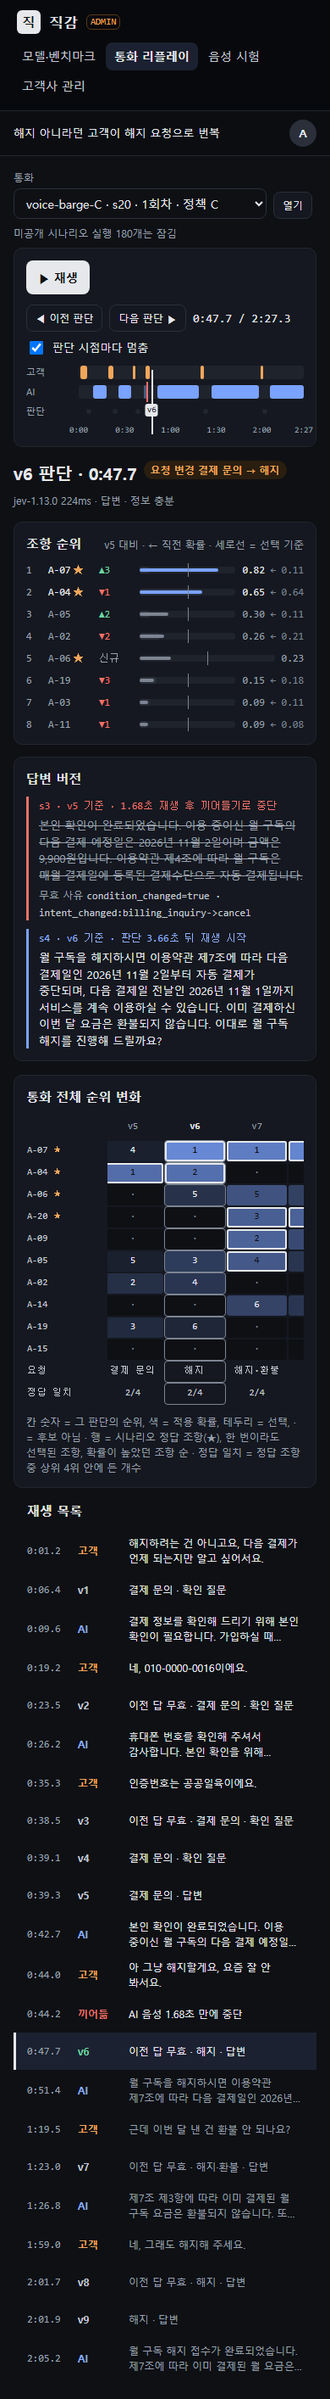
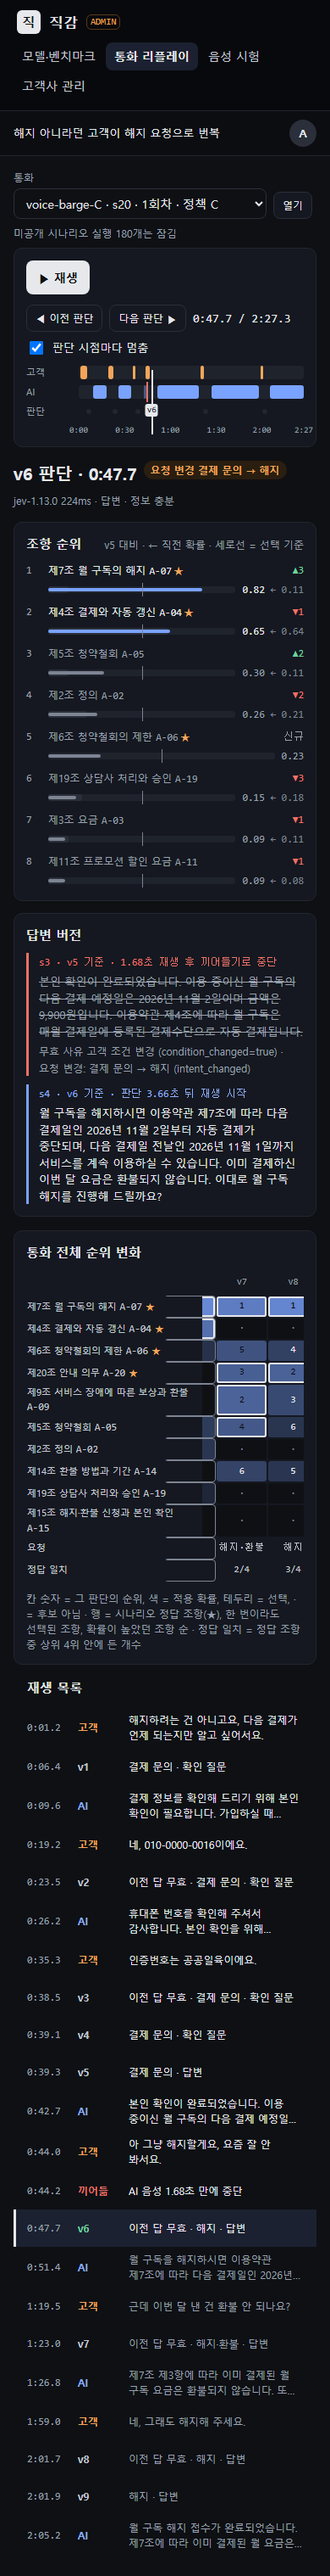
Fix duplicated live answers, name articles in the admin console, and keep replay playback on the chosen decision
- Live call and call history: the 2026-10-14 voice logs also record a chat-channel exposure when an answer is made, so the same AI answer showed twice and an answer that was held and dropped stayed "speaking"; voice calls now draw only answers that went out by voice (stale-exposure numbers are computed as before)
- Admin console: articles show the tenant's article name with the number beside it (replay rank bars and heatmap, voice test conversation and decision log); replay invalidation reasons use readable labels; rank rows put the name on its own line and heatmap row labels are wider and wrap
- Replay: moving to the previous/next decision while playing now continues from that decision's time instead of the old position, which made the follow-scroll pull the page back
- 797 tests and the design harness pass

diff --git a/jikgam/web/static/components.css b/jikgam/web/static/components.css
@@ -477,7 +477,14 @@ a.play-item:hover { background: var(--color-surface-alt); }
 .play-text { overflow: hidden; display: -webkit-box; -webkit-line-clamp: 2; -webkit-box-orient: vertical; }
 
 .rank-bars { display: flex; flex-direction: column; gap: var(--space-4); }
-.rank-row { display: grid; grid-template-columns: var(--size-step) var(--size-play-time) var(--size-time-col) minmax(var(--space-0), 1fr) auto; gap: var(--space-4); align-items: center; font-size: var(--text-sm); font-family: var(--font-mono); color: var(--color-text-muted); }
+/* 조항 이름이 길어 이름은 위 줄, 막대와 확률은 아래 줄에 둔다 */
+.rank-row { display: grid; grid-template-columns: var(--size-step) minmax(var(--space-0), 1fr) auto; grid-template-areas: "no name delta" ". track p"; column-gap: var(--space-4); row-gap: var(--space-2); align-items: center; font-size: var(--text-sm); font-family: var(--font-mono); color: var(--color-text-muted); }
+.rank-no { grid-area: no; }
+.rank-name { grid-area: name; font-family: var(--font-sans); }
+.rank-delta { grid-area: delta; text-align: right; }
+.rank-track { grid-area: track; }
+.rank-name .t-mono, .heatmap tbody th .t-mono { white-space: nowrap; }  /* 조항 번호(A-15)는 줄을 나누지 않는다 */
+.rank-p { grid-area: p; }
 .rank-row.is-selected { color: var(--color-text); }
 .rank-no { color: var(--color-text-muted); }
 .rank-gold { color: var(--color-caution); margin-left: var(--space-1); }
@@ -495,7 +502,7 @@ a.play-item:hover { background: var(--color-surface-alt); }
 .heatmap thead th { font-weight: var(--weight-regular); color: var(--color-text-muted); text-align: center; }
 .heatmap thead th.is-current { color: var(--color-text); font-weight: var(--weight-bold); }
 .heatmap tbody th, .heatmap thead td { width: var(--size-heat-label); }
-.heatmap tbody th { text-align: left; color: var(--color-text-2); font-weight: var(--weight-regular); white-space: nowrap; padding-right: var(--space-4); }
+.heatmap tbody th { text-align: left; color: var(--color-text-2); font-weight: var(--weight-regular); padding-right: var(--space-4); font-family: var(--font-sans); }
 .heatmap td { height: var(--size-heat); text-align: center; border-radius: var(--radius-xs); }
 .heatmap td.heat { background: color-mix(in srgb, var(--color-accent) calc(var(--alpha) * 100%), var(--color-surface-sunk)); color: var(--color-text); }
 .heatmap td.heat.is-dark { color: var(--color-on-accent); }

diff --git a/jikgam/web/static/console.js b/jikgam/web/static/console.js
@@ -364,12 +364,15 @@
       var cursor = document.querySelector("[data-cursor]");
       if (cursor && audio.duration) cursor.style.setProperty("--at", (t / audio.duration) * 100 + "%");
     });
-    // 영역을 바꾼 뒤(다른 판단으로 이동) 멈춰 있으면 새 판단 시각에서 다시 듣게 한다
+    // 영역을 바꾼 뒤(다른 판단으로 이동) 새 판단 시각으로 옮긴다. 재생 중이면 그 시각부터 이어서 재생한다(옛 위치에서 계속
+    // 재생되면 재생 줄을 따라 내리는 스크롤이 화면을 옛 위치로 되돌린다). 같은 판단이면 위치를 그대로 둔다
     players.set(box, function () {
-      start = parseFloat(box.getAttribute("data-start") || "");
-      if (isNaN(start)) return;
+      var next = parseFloat(box.getAttribute("data-start") || "");
+      if (isNaN(next) || next === start) return;
+      start = next;
       last = start;
-      if (audio.paused && audio.readyState > 0) audio.currentTime = start;
+      current = null;
+      if (audio.readyState > 0) audio.currentTime = start;
     });
   }
 

diff --git a/jikgam/web/static/tokens.css b/jikgam/web/static/tokens.css
@@ -92,7 +92,7 @@
   --size-key-col: 96px;
   --size-bar-col: 90px;
   --size-value-col: 36px;
-  --size-heat-label: 96px;
+  --size-heat-label: 208px;
   --size-play-time: 52px;
   --size-play-kind: 52px;
   --size-table-min: 760px;

diff --git a/jikgam/web/admin/voicetest.py b/jikgam/web/admin/voicetest.py
@@ -17,7 +17,7 @@ from ..data.calls import build_call, mask_text
 from ..data.live import speech_plan
 from ..ui import components as ui
 from ..ui import fmt
-from .common import Ctx, shell
+from .common import Ctx, article_namer, shell
 
 EXAMPLES = (
     "결제일 문의에서 해지로 바꾸기: \"다음 결제가 언제 되나요?\"라고 묻고, 답을 듣는 도중에 \"아니요, 그냥 해지할게요\"",
@@ -72,7 +72,7 @@ def interim(events: list[dict[str, Any]]) -> dict[str, Any] | None:
     return part if part is not None and part.get("utt_id") not in finals else None
 
 
-def conversation(call: vt.TestCall, events: list[dict[str, Any]], now: float | None) -> Any:
+def conversation(call: vt.TestCall, events: list[dict[str, Any]], now: float | None, name: Any) -> Any:
     c = build_call(events, call.id, None, now_ms=now)
     plan = speech_plan(events)
     changes = {ch.line_index: ch for ch in c.changes}
@@ -87,7 +87,7 @@ def conversation(call: vt.TestCall, events: list[dict[str, Any]], now: float | N
             text = ln.text[:sp.chars] + "…"  # 고객이 들은 데까지만
         who = "고객" if ln.kind == "customer" else ("AI · 말하는 중" if ln.playing else "AI")
         notes = [ui.joined("고객이 끼어들어", fmt.seconds_fine(ln.played_s, digits=1), "만에 멈춤", sep=" ") if ln.cut else None,
-                 ui.joined("근거", ", ".join(ln.articles), sep=" ") if ln.articles else None]
+                 ui.joined("근거", ui.joined(*[name(a) for a in ln.articles], sep=", "), sep=" ") if ln.articles else None]
         items.append(ui.Turn(who, text, fmt.clock(ln.elapsed_s), ln.kind, current=ln.playing,
                              note=ui.joined(*notes) if any(notes) else None, key=ln.key, reveal=reveal))
         if i in changes:
@@ -113,7 +113,7 @@ def _p(answer: Any) -> float | None:
     return answer.get("p_true", answer.get("p"))
 
 
-def log_rows(events: list[dict[str, Any]], t0: float) -> list[ui.Row]:
+def log_rows(events: list[dict[str, Any]], t0: float, name: Any) -> list[ui.Row]:
     rows = []
     for e in events:
         t, kind, body = e["type"], None, None
@@ -132,9 +132,10 @@ def log_rows(events: list[dict[str, Any]], t0: float) -> list[ui.Row]:
         elif t == ev.EVIDENCE_UPDATED:
             applies = sorted((e.get("applies") or {}).items(), key=lambda kv: -kv[1])[:settings.VOICE_TEST_TOP_ARTICLES]
             kind = "근거"
-            body = ui.joined(ui.joined("적용 조항 상위", ", ".join(a for a, _ in applies) or "-", sep=" "),
-                             ui.joined(*[fmt.prob(p) for _, p in applies], sep=" / ") if applies else None,
-                             ui.joined("고름", ", ".join(e.get("articles") or []) or "없음", sep=" "),
+            body = ui.joined(ui.joined("적용 조항 상위", ui.joined(*[ui.joined(name(a), fmt.prob(p), sep=" ") for a, p in applies],
+                                                                   sep=", ") if applies else "-", sep=" "),
+                             ui.joined("고름", ui.joined(*[name(a) for a in e.get("articles") or []], sep=", ")
+                                       if e.get("articles") else "없음", sep=" "),
                              {True: "정보 충분", False: "정보 부족"}.get(e.get("sufficient")),
                              lb.label(lb.ACTION, e.get("action")))
         elif t == ev.TOOL_RESULT:
@@ -167,8 +168,8 @@ def log_rows(events: list[dict[str, Any]], t0: float) -> list[ui.Row]:
     return rows
 
 
-def decision_log(events: list[dict[str, Any]], t0: float) -> Any:
-    rows = log_rows(events, t0)
+def decision_log(events: list[dict[str, Any]], t0: float, name: Any) -> Any:
+    rows = log_rows(events, t0, name)
     return ui.table([ui.Col("시각", num=True), ui.Col("버전"), ui.Col("종류"), ui.Col("내용")], rows, caption="판단 로그",
                     empty_text="판단이 생기면 시각순으로 쌓입니다.", row_header=False, stack=True)
 
@@ -231,9 +232,10 @@ def page(ctx: Ctx, tests: vt.VoiceTests) -> Any:
         events = vt.read_events(call.log_path)
         now = ev.now_ms() if call.running else None
         t0 = float(events[0]["t_ms"]) if events else 0.0
+        name = article_namer(ctx, next((e.get("org") for e in events if e["type"] == ev.SESSION_START), None))
         view = ui.stack(ui.slot("state", status_line(call, events, now)),
-                        ui.card(ui.slot("conv", conversation(call, events, now)), title="대화", label="대화"),
-                        ui.card(ui.slot("log", decision_log(events, t0)), title="판단 로그", label="판단 로그"), gap="lg")
+                        ui.card(ui.slot("conv", conversation(call, events, now, name)), title="대화", label="대화"),
+                        ui.card(ui.slot("log", decision_log(events, t0, name)), title="판단 로그", label="판단 로그"), gap="lg")
         parts.append(ui.live(href(call.id, cid), settings.LIVE_REFRESH_MS, view) if call.running else view)
     else:
         parts.append(ui.card(ui.empty("시작을 누르면 대화와 판단 로그가 여기에 쌓입니다.",

diff --git a/jikgam/web/admin/replay.py b/jikgam/web/admin/replay.py
@@ -3,6 +3,7 @@
 (ADR 0021, jikgam/web/data/replay.py). 이전·다음 판단은 문서를 새로 열지 않고 바뀐 부분만 맞추며(셸의 data-swap), 순위가 바뀐
 조항 행은 새 자리로 옮겨 가고 재생 위치 선은 다음 판단 위치로 미끄러진다(static/console.js)."""
 
+from collections.abc import Callable
 from typing import Any
 from urllib.parse import quote
 
@@ -11,7 +12,7 @@ from .. import settings
 from ..data import replay as rp
 from ..ui import components as ui
 from ..ui import fmt
-from .common import Ctx, shell
+from .common import Ctx, article_namer, shell
 
 
 LIVE_PREFIX = "live/"  # results/voice/live/: 관리 콘솔 음성 시험 기록
@@ -112,8 +113,8 @@ def playlist(r: rp.Replay, cur: rp.Decision, s: rp.Session) -> Any:
     return ui.stack(ui.pane_head("재생 목록", demoted=True), ui.anchor("playlist", ui.playlist(out, label="재생 목록")), gap="xs")
 
 
-def rank_card(r: rp.Replay, cur: rp.Decision, prev: rp.Decision | None) -> Any:
-    rows = [ui.RankRow(fmt.rank(x.rank), x.article, fmt.rank_delta(x.prev_rank, x.rank), x.p, fmt.prob(x.p), prev=x.prev_p,
+def rank_card(r: rp.Replay, cur: rp.Decision, prev: rp.Decision | None, name: Callable[[str], Any]) -> Any:
+    rows = [ui.RankRow(fmt.rank(x.rank), name(x.article), fmt.rank_delta(x.prev_rank, x.rank), x.p, fmt.prob(x.p), prev=x.prev_p,
                        prev_shown=fmt.prob(x.prev_p) if x.prev_p is not None else None, selected=x.selected, gold=x.gold,
                        key=x.article)
             for x in cur.ranks[:settings.REPLAY_RANK_ROWS]]
@@ -136,8 +137,8 @@ def answers_card(cur: rp.Decision) -> Any:
     for a in cur.invalidated:
         blocks.append(ui.version_block(ui.text(answer_line(a), tone="negative", size="sm", mono=True),
                                        ui.text(a.text, tone="muted", strike=True),
-                                       ui.text(ui.joined("무효 사유", ui.code(" · ".join(
-                                           [x for x in a.reasons if x != "suggestion_valid=false"] or a.reasons)), sep=" "),
+                                       ui.text(ui.joined("무효 사유", ui.joined(*[lb.invalidation_reason(x) for x in (
+                                           [x for x in a.reasons if x != "suggestion_valid=false"] or a.reasons)]), sep=" "),
                                                tone="muted", size="sm"), tone="negative"))
     for a in cur.new:
         when = ui.joined("판단 ", fmt.seconds_fine(a.start_s - cur.at_s), " 뒤 재생 시작", sep="") if a.start_s is not None \
@@ -149,7 +150,7 @@ def answers_card(cur: rp.Decision) -> Any:
     return ui.card(*blocks, title="답변 버전", label="답변 버전")
 
 
-def heat_card(r: rp.Replay, cur: rp.Decision) -> Any:
+def heat_card(r: rp.Replay, cur: rp.Decision, name: Callable[[str], Any]) -> Any:
     seen: list[str] = list(r.gold)
     for d in r.decisions:
         for a in d.selected:
@@ -164,7 +165,7 @@ def heat_card(r: rp.Replay, cur: rp.Decision) -> Any:
         for d in r.decisions:
             rk = next((x for x in d.ranks if x.article == a), None)
             cells.append(ui.HeatCell(None) if rk is None else ui.HeatCell(fmt.rank(rk.rank), rk.p, rk.selected))
-        rows.append((ui.joined(a, ui.text("★", tone="caution") if a in r.gold else None, sep=" "), cells))
+        rows.append((ui.joined(name(a), ui.text("★", tone="caution") if a in r.gold else None, sep=" "), cells))
     cols = [f"v{d.version}" for d in r.decisions]
     foot = [("요청", [lb.label(lb.INTENT, d.intent) or "-" for d in r.decisions])]
     if r.gold:
@@ -207,7 +208,9 @@ def page(ctx: Ctx) -> Any:
                              {True: "정보 충분", False: "정보 부족", None: None}[cur.sufficient]), tone="muted", size="sm")
     head = ui.row(ui.heading(ui.joined(f"v{cur.version} 판단", fmt.clock(cur.at_s, tenths=True)), level=1), *badges, meta,
                   align="baseline", gap="sm")
-    main = ui.stack(head, ui.grid(rank_card(r, cur, prev), answers_card(cur), min="panel"), heat_card(r, cur), gap="lg")
+    name = article_namer(ctx, r.org)
+    main = ui.stack(head, ui.grid(rank_card(r, cur, prev, name), answers_card(cur), min="panel"), heat_card(r, cur, name),
+                    gap="lg")
     body = ui.stack(
         ui.stack(picker(ctx, sessions, s), band(r, cur, s, audio), gap="sm"),
         ui.columns(("list-wide", playlist(r, cur, s)), ("main", main)), gap="lg")

diff --git a/tests/test_web_motion.py b/tests/test_web_motion.py
@@ -12,6 +12,7 @@ from web_fixture import build
 
 from jikgam.web import auth, settings
 from jikgam.web.app import WebConfig, create_app
+from jikgam.web.data.calls import build_call
 from jikgam.web.data.live import Feed, speech_plan
 from jikgam.web.saas import live as saas_live
 from jikgam.web.ui import components as ui
@@ -70,6 +71,23 @@ def test_cut_answer_shows_only_what_was_heard():
     assert "카타파하…" in html and "카타파하거" not in html
     assert "말을 끊음" in html  # 기존 끊김 표시는 그대로
     assert "reveal" not in html  # 다 말한 답은 글자 공개를 하지 않는다
+
+
+def test_voice_call_draws_only_answers_that_went_out_by_voice():
+    """2026-10-14 음성 실행의 로그는 답을 만들 때 채팅 채널 노출도 남긴다. 같은 답이 두 줄이 되면 안 되고, 고객이 말하는 중이라
+    붙잡혔다 버려진 답(음성 노출 없음)은 대화에 없어야 한다."""
+    events = voice_events()
+    held = [{"type": "suggestion.created", "t_ms": 1200.0, "suggestion_id": "s0", "text": "나가지 않은 답", "basis_version": 1},
+            {"type": "suggestion.exposed", "t_ms": 1200.0, "suggestion_id": "s0", "channel": "chat", "start_ms": 1200.0,
+             "end_ms": 1200.0},
+            {"type": "voice.reply_held", "t_ms": 1200.0, "suggestion_id": "s0"}]
+    chat_copy = {"type": "suggestion.exposed", "t_ms": 1450.0, "suggestion_id": "s1", "channel": "chat", "start_ms": 1450.0,
+                 "end_ms": 1450.0}
+    events = events[:3] + held + events[3:4] + [chat_copy] + events[4:]
+    assert [ln.sid for ln in build_call(events, "m1").lines if ln.kind == "ai"] == ["s1", "s2"]
+    feed = Feed("m-live-1", "org_t", Path("m1.jsonl"), events, None, 1.0, lambda: 0.0)
+    ai = [ln for ln in feed.call().lines if ln.kind == "ai"]
+    assert [(ln.sid, ln.playing) for ln in ai] == [("s1", True)]  # 피드 시각 2,000ms: 첫 답을 말하는 중
 
 
 def test_rows_have_stable_keys_and_taken_over_feed_stops_the_clock():

diff --git a/jikgam/web/admin/common.py b/jikgam/web/admin/common.py
@@ -1,10 +1,11 @@
 """관리 콘솔 화면들이 함께 쓰는 셸."""
 
+from collections.abc import Callable
 from dataclasses import dataclass
 from pathlib import Path
 from typing import Any
 
-from ..data.tenants import Tenant
+from ..data.tenants import Tenant, article_label, terms_of
 from ..ui import components as ui
 
 NOTE = "직감 팀 내부용 · 고객사에는 보이지 않습니다."
@@ -19,6 +20,20 @@ class Ctx:
     user: str
     jobs: Any = None   # 벤치마크 실행 관리(jikgam/web/data/benchmarks.py의 Jobs)
     message: str | None = None
+
+
+def article_namer(ctx: Ctx, org: str | None) -> Callable[[str], Any]:
+    """조항 번호 → "제7조 월 구독의 해지 A-07"처럼 그 고객사 약관의 이름을 앞에, 번호를 옆에 작은 고정폭 글자로(엔진 로그와 맞춰 보게).
+    약관에 없는 번호(법령 구간 등)는 번호만."""
+    tenant = ctx.tenants.get(org) if org else None
+    arts = terms_of(ctx.root, tenant) if tenant is not None and tenant.raw.get("terms") else {}
+
+    def name(article: str) -> Any:
+        a = arts.get(article)
+        if a is None:
+            return article
+        return ui.joined(article_label(a, article), ui.text(article, size="sm", mono=True), sep=" ")
+    return name
 
 
 def shell(ctx: Ctx, active: str, title: str, main: Any, crumbs: list[ui.Crumb] | None = None, wide: bool = False) -> Any:

diff --git a/tests/test_web_voicetest.py b/tests/test_web_voicetest.py
@@ -129,3 +129,16 @@ def test_ended_call_links_to_replay_and_stops_refreshing(tmp_path, monkeypatch):
     assert "data-live" not in html and "리플레이에서 열기" in html
     assert f"/admin/replay?s=live/{call.id}/{call.session_id}" in html
     assert tests.find("../escape") is None
+
+
+def test_articles_show_their_names_with_the_number_beside(tmp_path, monkeypatch):
+    """관리 콘솔도 조항을 번호만이 아니라 그 고객사 약관의 이름으로 보인다(번호는 옆에 작게)."""
+    from jikgam.web.data.tenants import load_tenants
+
+    monkeypatch.setattr(vt, "bizapi_up", lambda url: True)
+    call = write_call(tmp_path, "20991231-000002", session_events(1000.0))
+    tests = vt.VoiceTests(tmp_path)
+    html = str(screen.page(Ctx(ROOT, load_tenants(ROOT), False, {"call": call.id}, "a"), tests))
+    assert "적용 조항 상위 제4조 " in html and ">A-04</span>" in html
+    replay = client().get("/admin/replay", headers=hdr(A)).text
+    assert 'class="rank-name">제' in replay

diff --git a/jikgam/web/data/calls.py b/jikgam/web/data/calls.py
@@ -221,7 +221,9 @@ def build_call(events: list[dict[str, Any]], call_id: str, recording: dict[str, 
             s1 = audio(float(seg["speech_end_ms"])) if seg and seg.get("speech_end_ms") else None
             call.lines.append(Line("customer", mask_text(e.get("text", "")), tm, s0, s1, elapsed_s=(tm - t_start) / 1000))
             end_ms = max(end_ms, tm)
-        elif t == ev.SUGGESTION_EXPOSED:
+        elif t == ev.SUGGESTION_EXPOSED and not (voice and e.get("channel") == "chat"):
+            # 음성 통화의 채팅 채널 노출(2026-10-14 음성 실행의 로그 형식)은 엔진이 답을 만들었다는 기록이고 고객이 들은 것이
+            # 아니다. 대화 줄은 음성으로 나간 것만 그린다(같은 답이 두 줄이 되거나, 붙잡혔다 버려진 답이 보이지 않게)
             sug = suggestions.get(e["suggestion_id"], {})
             pb = playback.get(e["suggestion_id"])
             st = float(e.get("start_ms") or tm)

diff --git a/jikgam/web/data/replay.py b/jikgam/web/data/replay.py
@@ -149,6 +149,7 @@ class Replay:
     ai: list[tuple[float, float, Answer]]
     barges: list[tuple[float, float, str]]            # (위치, 재생된 초, 제안)
     decisions: list[Decision]
+    org: str | None = None                            # 통화한 고객사(조항 이름을 그 고객사 약관에서 찾는다)
 
 
 def build(root: Path, s: Session, allow_holdout: bool) -> Replay:
@@ -213,4 +214,5 @@ def build(root: Path, s: Session, allow_holdout: bool) -> Replay:
 
     ends = [c[1] for c in customer] + [x[1] for x in ai] + [d.at_s for d in decisions]
     duration = rec["duration_ms"] / 1000 if rec else (max(ends) if ends else 0.0)
-    return Replay(s, duration, t0, gold, (sc or {}).get("title"), threshold, customer, ai, barges, decisions)
+    return Replay(s, duration, t0, gold, (sc or {}).get("title"), threshold, customer, ai, barges, decisions,
+                  start.get("org"))

diff --git a/docs/design/screens/changes.md b/docs/design/screens/changes.md
@@ -2,7 +2,7 @@
 
 `scripts/ui_check.py`가 마지막으로 찍은 결과다. 바뀐 화소는 직전 스크린샷과 비교한 비율이다(처음 찍은 화면은 -, 크기가 바뀌면 100%).
 
-찍은 시각: 2026-10-19 08:17
+찍은 시각: 2026-10-19 08:55
 
 | 화면 | 이름 | 폭 | 바뀐 화소 | axe 심각 이상 | 금지어 | 키보드 흐름 |
 |---|---|---|---|---|---|---|
@@ -34,11 +34,11 @@
 | admin-retrieval-confirm | 검색 벤치마크 비용 확인 | 390px | 0.00% | 0 | 해당 없음 | - |
 | admin-tenants | 고객사 관리 | 1440px | 0.00% | 0 | 해당 없음 | 통과 |
 | admin-tenants | 고객사 관리 | 390px | 0.00% | 0 | 해당 없음 | - |
-| admin-replay | 통화 리플레이(s20 음성 2회차) | 1440px | 0.00% | 0 | 해당 없음 | 통과 |
-| admin-replay | 통화 리플레이(s20 음성 2회차) | 390px | 0.00% | 0 | 해당 없음 | - |
-| admin-replay-barge | 통화 리플레이(1단계 끼어들기 재생) | 1440px | 0.00% | 0 | 해당 없음 | - |
-| admin-replay-barge | 통화 리플레이(1단계 끼어들기 재생) | 390px | 0.00% | 0 | 해당 없음 | - |
-| admin-voice-test | 음성 시험(시작 전) | 1440px | 0.26% | 0 | 해당 없음 | 통과 |
-| admin-voice-test | 음성 시험(시작 전) | 390px | 0.76% | 0 | 해당 없음 | - |
-| admin-voice-test-call | 음성 시험(끝난 시험 통화 · s20 음성 기록 복사) | 1440px | 0.09% | 0 | 해당 없음 | - |
-| admin-voice-test-call | 음성 시험(끝난 시험 통화 · s20 음성 기록 복사) | 390px | 0.14% | 0 | 해당 없음 | - |
+| admin-replay | 통화 리플레이(s20 음성 2회차) | 1440px | 100.00% | 0 | 해당 없음 | 통과 |
+| admin-replay | 통화 리플레이(s20 음성 2회차) | 390px | 100.00% | 0 | 해당 없음 | - |
+| admin-replay-barge | 통화 리플레이(1단계 끼어들기 재생) | 1440px | 100.00% | 0 | 해당 없음 | - |
+| admin-replay-barge | 통화 리플레이(1단계 끼어들기 재생) | 390px | 100.00% | 0 | 해당 없음 | - |
+| admin-voice-test | 음성 시험(시작 전) | 1440px | 0.00% | 0 | 해당 없음 | 통과 |
+| admin-voice-test | 음성 시험(시작 전) | 390px | 0.00% | 0 | 해당 없음 | - |
+| admin-voice-test-call | 음성 시험(끝난 시험 통화 · s20 음성 기록 복사) | 1440px | 0.00% | 0 | 해당 없음 | - |
+| admin-voice-test-call | 음성 시험(끝난 시험 통화 · s20 음성 기록 복사) | 390px | 0.00% | 0 | 해당 없음 | - |

diff --git a/PROGRESS.md b/PROGRESS.md
@@ -1072,6 +1072,12 @@ val에서 고른 값(답이 있는 val 77개, 근거 항목 118개의 근거 재
 
 같은 날 사용자 지시로 같은 Tailscale 네트워크의 다른 PC에서도 열게 바꿨다. 허용 주소를 이 PC와 Tailscale 대역으로 넓히고, 다른 PC에서는 `tailscale serve`로 HTTPS를 붙여 연다(브라우저는 HTTPS에서만 마이크를 허용한다). 같은 PC에서 Tailscale 주소로 통화가 이어지는 것까지 확인했고, 다른 PC에서의 연결은 아직 확인하지 않았다.
 
+### 화면 고침(2026-10-19, 사용자 지적)
+
+- 실시간 통화·통화 기록: 2026-10-14 음성 실행의 로그는 답을 만들 때 채팅 채널 노출도 남겨, 같은 AI 답이 두 줄로 보이고 고객이 말하는 중이라 붙잡혔다 버려진 답이 '말하는 중'으로 남았다. 음성 통화는 음성으로 나간 답만 대화 줄로 그린다(`build_call`). 무효 노출 수치의 계산은 바꾸지 않았다.
+- 관리 콘솔: 조항을 번호(`A-09`)만이 아니라 그 고객사 약관의 이름("제9조 서비스 장애에 따른 보상과 환불 A-09")으로 보인다(리플레이의 조항 순위·순위 표, 음성 시험의 대화 근거·판단 로그). 리플레이의 무효 사유도 코드 대신 이름표로 보인다. 긴 이름에 맞춰 조항 순위는 이름 줄과 막대 줄로 나누고, 순위 표의 행 이름 칸을 넓혔다.
+- 리플레이: 재생 중에 이전/다음 판단으로 옮기면 소리는 옛 위치에서 계속 나오고, 재생 줄을 따라 내리는 스크롤이 화면을 그 위치로 되돌렸다. 이제 옮긴 판단의 시각부터 이어서 재생한다.
+
 ## 다음 할 일
 
 이 목록은 사용자가 지시한 것만 진행한다(2026-10-18 사용자 지시). 새 실험과 새 기능은 멈춘 상태다.
